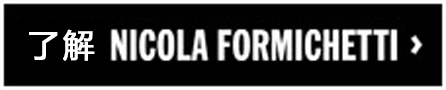
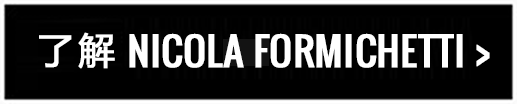
update mobile

Changed region(s): [[0.0583, 0.3111, 0.9619, 0.6889]]

diff --git a/css/mobile640.css b/css/mobile640.css
@@ -41,18 +41,19 @@
 #footer{width: 100%;min-width: 100%;}
 #footer_main{position: relative;}
 #right_links{position: absolute; top:30px;margin: 0;left:30px; }
-#right_links ul{display: none}
+#footer_main #right_links ul.cr {margin:30px 0 0 20px;font-size:20px;}
+#footer_main #right_links ul.cr .yahie {font-size:20px;}
 #right_links ul.cl{display:block;}
-#footer_main #right_links {margin:25px 25px 0 70px;}
+#footer_main #right_links {margin:25px 25px 0 70px;transform: scale(1.3);-webkit-transform: scale(1.3);-moz-transform: scale(1.3);-ms-transform: scale(1.3);-o-transform: scale(1.3);}
 #footer_main #right_links ul li{float:left;margin-right: 20px;}
 #footer_main #right_links ul li a.image_replacement{background: url('../img/mobile/footer_icon.png') no-repeat;height: 37px;}
 #footer_main #right_links ul li a.weibo{width:106px; }
-#footer_main #right_links ul li a.qing{background-position: -126px 0;width: 80px;}
+#footer_main #right_links ul li a.qing{background:url(../img/mobile/icon_qing.gif) no-repeat;background-size:100% 100%;width: 70px;height: 32px;margin-top:3px;}
 #footer_main #right_links ul li a.youku{background-position: -226px 0;width: 114px;}
 #footer_main #right_links ul li a.weixin{background-position: -360px 0;width: 84px;}
-#footer_main #right_links ul li a.instagram{background-position: -464px 0;width: 80px;}
+#footer_main #right_links ul li a.instagram{background:url(../img/mobile/icon_instagram.gif) no-repeat;background-size:100% 100%;width: 90px;height:34px;margin-top:5px;}
 
-#footer_main #footer_nav_container{margin: 140px 0 0;}
+#footer_main #footer_nav_container{margin: 200px 0 0;}
 #footer_nav_container .nav_column{width: 260px;}
 #footer_nav_container .nav_column ul li{font-size: 22px;line-height: 30px;}
 #footer_nav_container .nav_column ul li.category{font-size: 25px;}
@@ -64,7 +65,7 @@
 .grids.c1.c2, #homepage .c1.c2.col{width: 100%;}
 .grids.c3.c4, #homepage .c3.c4.col{width: 100%;min-height:190px;}
 #homepage .m_full_row {height: auto!important;}
-#homepage .m_full_row .c1_2 {min-height:190px;}
+#homepage .m_full_row .c1_2 {min-height:350px;}
 .home_arrow, #homepage .col .links li a {display: none;}
 .grids.c1, #homepage .c1.col{width: 52%}
 .grids.c2, #homepage .c2.col{width: 48%}
@@ -87,9 +88,8 @@
     transform: scale(1.5);-webkit-transform: scale(1.5);-moz-transform: scale(1.5);-ms-transform: scale(1.5);-o-transform: scale(1.5);}
 .reboot_com p{padding:10px 50px;}
 #diesel-reboot .col-right img.title {margin:0 auto 20px auto;display: block;}
-#diesel-reboot .meet-nicola-formichetti{padding:40px 0;}
-#diesel-reboot .meet-nicola-formichetti img{margin: 0;
-    transform: scale(2);-webkit-transform: scale(2);-moz-transform: scale(2);-ms-transform: scale(2);-o-transform: scale(2);}
+#diesel-reboot .meet-nicola-formichetti{padding:40px 0;background:url(../img/mobile/reboot_07.png) no-repeat;width:517px;height:104px;margin:0 auto;}
+#diesel-reboot .meet-nicola-formichetti img{display:none;}
 
 
 
@@ -109,7 +109,8 @@
 .her_nav a.on, .her_nav a:hover{border:none;opacity:1;}
 .her_nav{height: auto;padding: 0;background:#323232 url(../img/mobile/sep.gif) no-repeat center;}
 .her_com{padding:0;display: block;border-bottom:#000 solid 15px;}
-.her_article{padding:30px 60px;font-size: 16px;color:#333;font-weight: normal;}
+.her_article{padding:30px 60px;font-size: 22px;line-height:140%;color:#333;font-weight: normal;}
+.her_pho1, .her_pho2 {height:189px;}
 .awards_month{width: 82px}
 .awards_item{padding:0 0 5px;}
 .awards_item p.awards_com{padding:0 0 0 110px}

diff --git a/js/common.js b/js/common.js
@@ -206,13 +206,13 @@ jQuery(document).ready(function() {
 
     $('#header #menu').click(function(){
         if( $(window).width() <= 640 ){
-            if($('#header #menu').css('overflow') != 'visible')
+            if($('#header #menu').height() < 400)
             {
-                $('#header #menu').css('overflow','visible');
+                $('#header #menu').height(618);
             }
             else
             {
-                $('#header #menu').css('overflow','hidden');
+                $('#header #menu').height(0);
             }
         }
     });

diff --git a/storelocator/web/assets/core/js/store-locator.js b/storelocator/web/assets/core/js/store-locator.js
@@ -89,13 +89,13 @@ $(document).ready(function(){
 
     $('#header #menu').click(function(){
         if( $(window).width() <= 640 ){
-            if($('#header #menu').css('overflow') != 'visible')
+            if($('#header #menu').height() < 400)
             {
-                $('#header #menu').css('overflow','visible');
+                $('#header #menu').height(618);
             }
             else
             {
-                $('#header #menu').css('overflow','hidden');
+                $('#header #menu').height(0);
             }
         }
     });

diff --git a/storelocator/apps/frontend/templates/include/footer.php b/storelocator/apps/frontend/templates/include/footer.php
@@ -96,7 +96,7 @@
                 <li class="weixin_wrap"><a href="###" title="微信" class="image_replacement weixin">微信</a><img class="weixin_qr" src="/img/qr.gif" /></li>
                 <li><a target="_blank" href="http://instagram.com/dieselpics" title="instagram" class="image_replacement instagram">instagram</a></li>
             </ul>
-            <ul>
+            <ul class="cr">
                 <!--<li><a onclick="trackWoodland('footer__to_faq');"  class="legal-notice" href="http://www.facebook.com/Diesel/app_538509729507290" title="FAQ" target="_blank">FAQ</a></li>-->
                 <li><a target="_blank"  class="yahie" href="http://www.diesel.com/legal-terms" title="法律声明">法律声明</a></li>
                 <li><a target="_blank" class="yahie"  href="http://www.diesel.com/jobs" title="加入我们">加入我们</a></li>

diff --git a/include/footer.php b/include/footer.php
@@ -96,7 +96,7 @@
                 <li class="weixin_wrap"><a href="###" title="微信" class="image_replacement weixin">微信</a><img class="weixin_qr" src="img/qr.gif" /></li>
                 <li><a target="_blank" href="http://instagram.com/dieselpics" title="instagram" class="image_replacement instagram">instagram</a></li>
             </ul>
-            <ul>
+            <ul class="cr">
                 <!--<li><a onclick="trackWoodland('footer__to_faq');"  class="legal-notice" href="http://www.facebook.com/Diesel/app_538509729507290" title="FAQ" target="_blank">FAQ</a></li>-->
                 <li><a target="_blank"  class="yahie" href="http://www.diesel.com/legal-terms" title="法律声明">法律声明</a></li>
                 <li><a target="_blank" class="yahie"  href="http://www.diesel.com/jobs" title="加入我们">加入我们</a></li>

diff --git a/heritage.php b/heritage.php
@@ -1,7 +1,7 @@
 <!DOCTYPE html PUBLIC "-//W3C//DTD XHTML 1.0 Strict//EN" "http://www.w3.org/TR/xhtml1/DTD/xhtml1-strict.dtd">
 <html xmlns="http://www.w3.org/1999/xhtml" xml:lang="en" lang="en">
 <head>
-    <meta name="viewport" content="width=640, user-scalable=no" />
+    <meta name="viewport" content="width=640, minimum-scale=0.5, maximum-scale=1.0" />
     <meta http-equiv="Content-Type" content="text/html; charset=utf-8" />
     <meta name="title" content="Diesel - jeans, clothing, shoes, watches, apparel, underwear and sunglasses" />
     <meta name="description" content="Diesel&#039;s Fall Winter 2013 Main Collection and the Fall Winter Preview Collection." />

diff --git a/index.php b/index.php
@@ -1,7 +1,7 @@
 <!DOCTYPE html PUBLIC "-//W3C//DTD XHTML 1.0 Strict//EN" "http://www.w3.org/TR/xhtml1/DTD/xhtml1-strict.dtd">
 <html xmlns="http://www.w3.org/1999/xhtml" xml:lang="en" lang="en">
 <head>
-    <meta name="viewport" content="width=640, user-scalable=no" />
+    <meta name="viewport" content="width=640, minimum-scale=0.5, maximum-scale=1.0" />
     <meta http-equiv="Content-Type" content="text/html; charset=utf-8" />
     <meta name="title" content="Diesel - jeans, clothing, shoes, watches, apparel, underwear and sunglasses" />
     <meta name="description" content="Diesel&#039;s Fall Winter 2013 Main Collection and the Fall Winter Preview Collection." />

diff --git a/reboot.php b/reboot.php
@@ -1,7 +1,7 @@
 <!DOCTYPE html PUBLIC "-//W3C//DTD XHTML 1.0 Strict//EN" "http://www.w3.org/TR/xhtml1/DTD/xhtml1-strict.dtd">
 <html xmlns="http://www.w3.org/1999/xhtml" xml:lang="en" lang="en">
 <head>
-    <meta name="viewport" content="width=640, user-scalable=no" />
+    <meta name="viewport" content="width=640, minimum-scale=0.5, maximum-scale=1.0" />
     <meta http-equiv="Content-Type" content="text/html; charset=utf-8" />
     <meta name="title" content="Diesel - jeans, clothing, shoes, watches, apparel, underwear and sunglasses" />
     <meta name="description" content="Diesel&#039;s Fall Winter 2013 Main Collection and the Fall Winter Preview Collection." />

diff --git a/storelocator/apps/frontend/templates/layout.php b/storelocator/apps/frontend/templates/layout.php
@@ -1,7 +1,7 @@
 <!DOCTYPE html PUBLIC "-//W3C//DTD XHTML 1.0 Strict//EN" "http://www.w3.org/TR/xhtml1/DTD/xhtml1-strict.dtd">
 <html xmlns="http://www.w3.org/1999/xhtml" xml:lang="en" lang="en">
   <head>
-      <meta name="viewport" content="width=640, user-scalable=no" />
+      <meta name="viewport" content="width=640, minimum-scale=0.5, maximum-scale=1.0" />
   	
   	<?php if (has_slot('discovery_metas')):?>
   	  <?php include_slot('discovery_metas')?>
